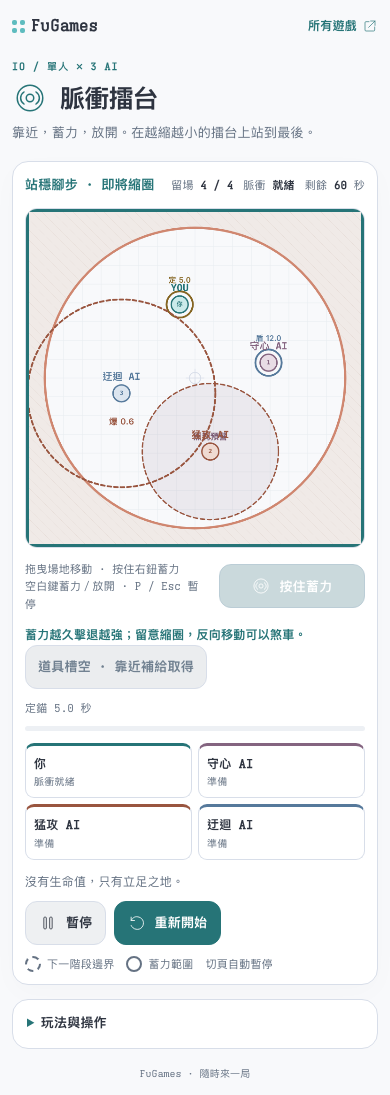
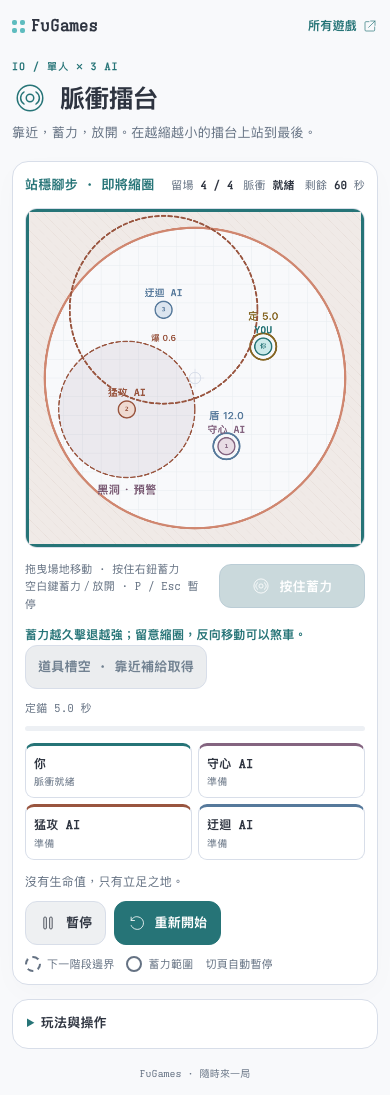
Separate mobile pulse warning labels from actor names

diff --git a/pulse_arena.html b/pulse_arena.html
@@ -165,8 +165,8 @@ function draw(){
  const ratio=Math.min(devicePixelRatio||1,2);if(canvas.width!==720*ratio)canvas.width=canvas.height=720*ratio;ctx.setTransform(ratio,0,0,ratio,0,0);ctx.fillStyle='#f0eae7';ctx.fillRect(0,0,720,720);ctx.strokeStyle='#d5c3bb55';ctx.lineWidth=1;for(let n=-720;n<1440;n+=22){ctx.beginPath();ctx.moveTo(n,0);ctx.lineTo(n+720,720);ctx.stroke();}
  const ring=PulseArena.ringAt(game.tick),future=PulseArena.ringAt(game.tick+250);ctx.fillStyle='#f8f9fb';ctx.beginPath();ctx.arc(360,360,ring,0,Math.PI*2);ctx.fill();ctx.save();ctx.clip();ctx.strokeStyle='#e7ecf0';ctx.lineWidth=1;for(let p=0;p<=720;p+=40){ctx.beginPath();ctx.moveTo(p,0);ctx.lineTo(p,720);ctx.moveTo(0,p);ctx.lineTo(720,p);ctx.stroke();}ctx.restore();ctx.strokeStyle='#d08770';ctx.lineWidth=5;ctx.beginPath();ctx.arc(360,360,ring,0,Math.PI*2);ctx.stroke();ctx.strokeStyle='#d0877080';ctx.lineWidth=2;ctx.setLineDash([6,8]);ctx.beginPath();ctx.arc(360,360,future,0,Math.PI*2);ctx.stroke();ctx.setLineDash([]);ctx.strokeStyle='#d8dee9';ctx.lineWidth=2;ctx.beginPath();ctx.arc(360,360,12,0,Math.PI*2);ctx.moveTo(341,360);ctx.lineTo(379,360);ctx.moveTo(360,341);ctx.lineTo(360,379);ctx.stroke();
  for(const p of game.pickups){ctx.fillStyle='#fff';ctx.strokeStyle='#775771';ctx.lineWidth=3;ctx.fillRect(p.x-15,p.y-15,30,30);ctx.strokeRect(p.x-15,p.y-15,30,30);ctx.fillStyle='#775771';ctx.font='bold 18px sans-serif';ctx.textAlign='center';ctx.fillText({anchor:'定',super:'爆',shield:'盾',hole:'洞'}[p.type],p.x,p.y+6);}
- for(const h of game.holes){const warm=game.tick<h.starts;ctx.strokeStyle=warm?'#99553f':'#775771';ctx.fillStyle='#77577118';ctx.lineWidth=3;ctx.setLineDash(warm?[9,6]:[]);ctx.beginPath();ctx.arc(h.x,h.y,145,0,Math.PI*2);ctx.fill();ctx.stroke();ctx.setLineDash([]);ctx.fillStyle='#775771';ctx.beginPath();ctx.arc(h.x,h.y,warm?10:22,0,Math.PI*2);ctx.fill();ctx.font='bold 18px sans-serif';ctx.textAlign='center';ctx.fillText(warm?'黑洞預警':((h.ends-game.tick)*.02).toFixed(1)+'s',h.x,h.y-32);}
- for(const a of game.actors)if(a.alive){if(a.superAt>game.tick){ctx.strokeStyle='#99553f';ctx.lineWidth=4;ctx.setLineDash([8,6]);ctx.beginPath();ctx.arc(a.x,a.y,200,0,Math.PI*2);ctx.stroke();ctx.setLineDash([]);ctx.fillStyle='#99553f';ctx.font='bold 18px sans-serif';ctx.fillText('爆 '+((a.superAt-game.tick)*.02).toFixed(1),a.x,a.y+60);}if(a.anchor||a.shield){ctx.strokeStyle=a.anchor?'#856522':'#56799b';ctx.lineWidth=4;ctx.beginPath();ctx.arc(a.x,a.y,28,0,Math.PI*2);ctx.stroke();ctx.fillStyle=ctx.strokeStyle;ctx.font='bold 16px sans-serif';ctx.fillText((a.anchor?'定 ':'盾 ')+((a.anchor||a.shield)*.02).toFixed(1),a.x,a.y-52);}}
+ for(const h of game.holes){const warm=game.tick<h.starts;ctx.strokeStyle=warm?'#99553f':'#775771';ctx.fillStyle='#77577118';ctx.lineWidth=3;ctx.setLineDash(warm?[9,6]:[]);ctx.beginPath();ctx.arc(h.x,h.y,145,0,Math.PI*2);ctx.fill();ctx.stroke();ctx.setLineDash([]);ctx.fillStyle='#775771';ctx.beginPath();ctx.arc(h.x,h.y,warm?10:22,0,Math.PI*2);ctx.fill();ctx.font='bold 24px sans-serif';ctx.textAlign='center';ctx.fillText(warm?'黑洞 · 預警':((h.ends-game.tick)*.02).toFixed(1)+'s 黑洞',Math.max(90,Math.min(630,h.x)),h.y>500?h.y-166:h.y+170);}
+ for(const a of game.actors)if(a.alive){if(a.superAt>game.tick){ctx.strokeStyle='#99553f';ctx.lineWidth=4;ctx.setLineDash([8,6]);ctx.beginPath();ctx.arc(a.x,a.y,200,0,Math.PI*2);ctx.stroke();ctx.setLineDash([]);ctx.fillStyle='#99553f';ctx.font='bold 18px sans-serif';ctx.fillText('爆 '+((a.superAt-game.tick)*.02).toFixed(1),a.x,a.y+60);}if(a.anchor||a.shield){ctx.strokeStyle=a.anchor?'#856522':'#56799b';ctx.lineWidth=4;ctx.beginPath();ctx.arc(a.x,a.y,28,0,Math.PI*2);ctx.stroke();ctx.fillStyle=ctx.strokeStyle;ctx.font='bold 22px sans-serif';ctx.fillText((a.anchor?'定 ':'盾 ')+((a.anchor||a.shield)*.02).toFixed(1),a.x,Math.max(23,a.y-65));}}
  for(const a of game.actors){if(!a.alive||!a.charging)continue;ctx.fillStyle=colors[a.id]+'0d';ctx.strokeStyle=colors[a.id]+'80';ctx.lineWidth=2;ctx.beginPath();ctx.arc(a.x,a.y,PulseArena.pulseRange(a.charge),0,Math.PI*2);ctx.fill();ctx.stroke();}
  for(const p of game.waves){const progress=1-p.life/.32;ctx.strokeStyle=colors[p.owner];ctx.globalAlpha=1-progress;ctx.lineWidth=7*(1-progress)+1;ctx.beginPath();ctx.arc(p.x,p.y,18+(p.range-18)*progress,0,Math.PI*2);ctx.stroke();ctx.globalAlpha=1;}
  for(const a of game.actors){if(!a.alive)continue;const speed=Math.hypot(a.vx,a.vy);ctx.strokeStyle=colors[a.id]+'45';ctx.lineWidth=13;ctx.lineCap='round';ctx.beginPath();ctx.moveTo(a.x,a.y);ctx.lineTo(a.x-a.vx*.07,a.y-a.vy*.07);ctx.stroke();ctx.fillStyle=tints[a.id];ctx.strokeStyle=colors[a.id];ctx.lineWidth=3;ctx.beginPath();ctx.arc(a.x,a.y,18,0,Math.PI*2);ctx.fill();ctx.stroke();if(a.charging){ctx.lineWidth=4;ctx.beginPath();ctx.arc(a.x,a.y,23,-Math.PI/2,-Math.PI/2+a.charge*Math.PI*2);ctx.stroke();}ctx.fillStyle=colors[a.id];ctx.textAlign='center';ctx.textBaseline='middle';ctx.font='bold 13px monospace';ctx.fillText(a.id?String(a.id):'你',a.x,a.y);ctx.font='bold '+Math.min(22,Math.max(14,Math.round(10*720/Math.max(canvas.clientWidth,1))))+'px monospace';ctx.fillText(a.id?names[a.id]:'YOU',a.x,Math.max(18,a.y-34));if(ring-Math.hypot(a.x-360,a.y-360)-18<40){ctx.strokeStyle='#99553f';ctx.lineWidth=2;ctx.beginPath();ctx.moveTo(a.x-24,a.y-9);ctx.lineTo(a.x-29,a.y);ctx.lineTo(a.x-24,a.y+9);ctx.moveTo(a.x+24,a.y-9);ctx.lineTo(a.x+29,a.y);ctx.lineTo(a.x+24,a.y+9);ctx.stroke();}if(a.cooldown>0){ctx.fillStyle='#d8dee9';ctx.fillRect(a.x-20,a.y+29,40,3);ctx.fillStyle=colors[a.id];ctx.fillRect(a.x-20,a.y+29,40*(1-a.cooldown/1.8),3);}}
